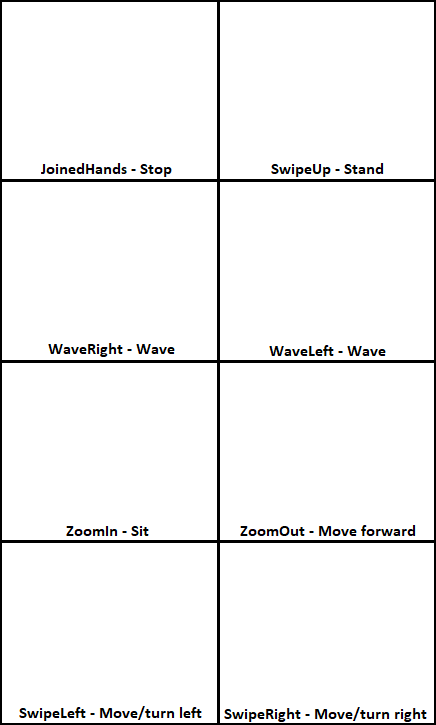
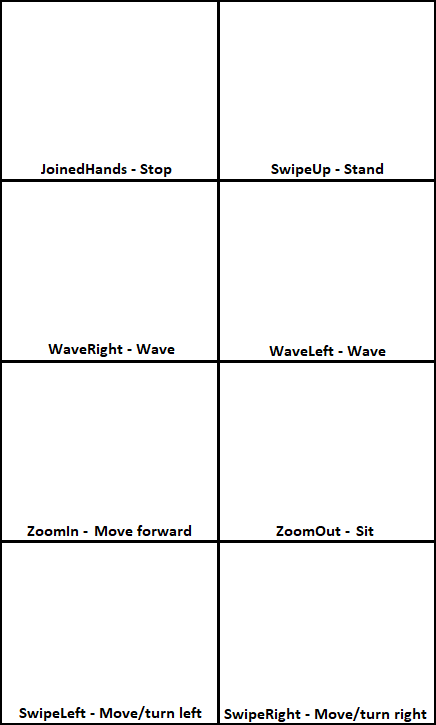
sending

Changed region(s): [[0.5367, 0.7283, 0.9541, 0.7586], [0.0596, 0.7283, 0.4472, 0.7586]]

diff --git a/NaoPython/NaoPython/NaoPython.py b/NaoPython/NaoPython/NaoPython.py
@@ -3,18 +3,21 @@ import requests
 import time
 
 def main():
-    #robot_ip = "192.168.0.110"
-    robot_ip = "127.0.0.1"
+    robot_ip = "192.168.0.108"
+    #robot_ip = "127.0.0.1"
     data_url = "http://naokinect.azurewebsites.net/Data"
 
     nao = Nao(robot_ip)
     nao.StiffnessOn()
 
+    r = requests.get(data_url + "?sending=0")
+    print("Ready")
+
     while 1:
         try:
             r = requests.get(data_url)
-            print(r.content)
             if(r.content != "0"):
+                print(r.content)
                 nao.Commands[r.content]()
                 r = requests.get(data_url + "?sending=0")
             time.sleep(0.1)
@@ -31,7 +34,8 @@ class Nao:
         self.motionProxy = ALProxy("ALMotion", robot_ip, 9559)	#Move
         self.tts = ALProxy("ALTextToSpeech", robot_ip , 9559)	#Say
         self.isWalking=False
-	
+        self.isSitting = True
+
     def StiffnessOn(self):
         self.motionProxy.setStiffnesses("Body", 1.0)  #zaseknutie klbov (aby sa mohol hybat)
     def StiffnessOff(self):
@@ -46,6 +50,8 @@ class Nao:
 													        #LyingBelly
 													        #LyingBack	
     def Move(self,kolko):	#v metroch
+        if (self.isSitting):
+            self.Stand()
         self.motionProxy.moveInit()
         self.motionProxy.post.moveTo(kolko, 0, 0)
 
@@ -98,10 +104,10 @@ class Nao:
     def DefineCommands(self):
         self.Commands = {b'JoinedHands' : self.Stop,     # STOP
                          b'SwipeUp' : self.Stand,        # STAND
-                         b'ZoomIn' : self.Sit,           # SIT
+                         b'ZoomIn' : self.MoveForward,   # MOVE FORWARD  
                          b'WaveRight' : self.WaveRight,  # WAVE RIGHT
                          b'WaveLeft' : self.WaveLeft,    # WAVE LEFT
-                         b'ZoomOut' : self.MoveForward,  # MOVE FORWARD
+                         b'ZoomOut' : self.Sit,          # SIT
                          b'SwipeLeft' : self.TurnLeft,   # MOVE/TURN LEFT
                          b'SwipeRight' : self.TurnRight, # MOVE/TURN RIGHT
         }
@@ -111,9 +117,11 @@ class Nao:
     def Stand(self):
         self.Stop()
         self.Set("Stand")
+        self.isSitting = False
     def Sit(self):
         self.Stop()
         self.Set("Sit")
+        self.isSitting = True
     def WaveRight(self):
         self.Wave("right")
     def WaveLeft(self):
@@ -124,18 +132,17 @@ class Nao:
     def TurnLeft(self):
         if self.isWalking:
             self.Stop() # mozno inak
-            self.MoveTo(2,1,1.4)
+            self.MoveTo(0.5,0.5,1.57)
         else:
             self.MoveTo(0,0,3.14)
     def TurnRight(self):
         if self.isWalking:
             self.Stop()
-            self.MoveTo(2,-1,-1.4)
+            self.MoveTo(0.5,-0.5,-1.57)
         else:
             self.MoveTo(0,0,-3.14)
 
 
-	
 
 
 if __name__ == "__main__":

diff --git a/KinectGestures/KinectGestures/MainWindow.xaml.cs b/KinectGestures/KinectGestures/MainWindow.xaml.cs
@@ -88,16 +88,16 @@ namespace KinectGestures
             // Menu         3   Hand slightly bent above hip(XBOX - like gesture).
             // SwipeDown    7   Hand moved vertically from head to hip center.
             string gesture = e.GestureType.ToString();
-            tblGestures.Text = gesture;
-            //SendData(gesture);
+            tblGestures.Text = gesture.ToString();
+            SendData(gesture.ToString());
         }
 
         void SendData(string data)
         {
             string url = @"http://naokinect.azurewebsites.net/Data?sending=" + data;
-            WebRequest.Create(url + data).GetResponse();
+            //WebRequest.Create(url).GetResponseAsync();
 
-            /*
+            
             WebRequest wrGETURL;
             wrGETURL = WebRequest.Create(url);
             
@@ -118,7 +118,7 @@ namespace KinectGestures
                     Console.ReadLine();
                 }                    
             }
-            */
+            
         }
     }
 }
